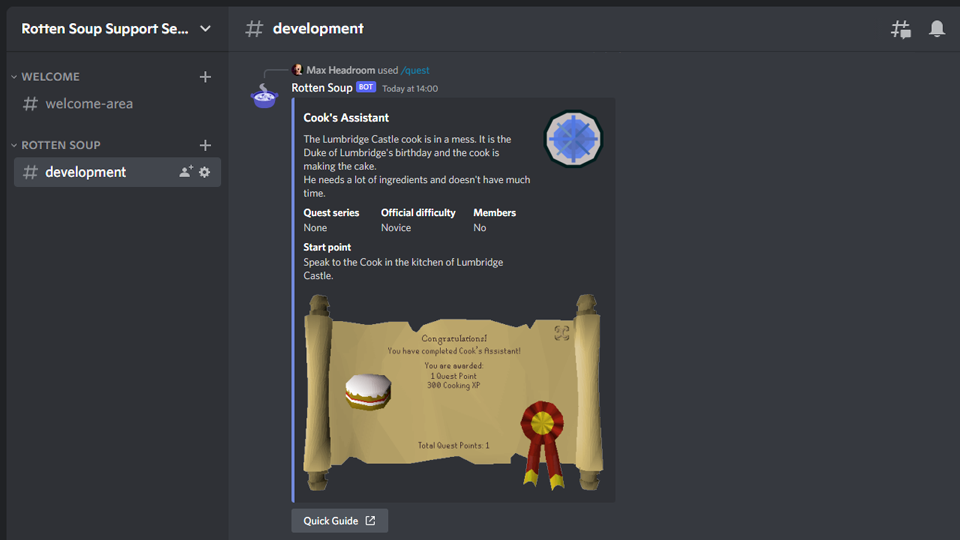
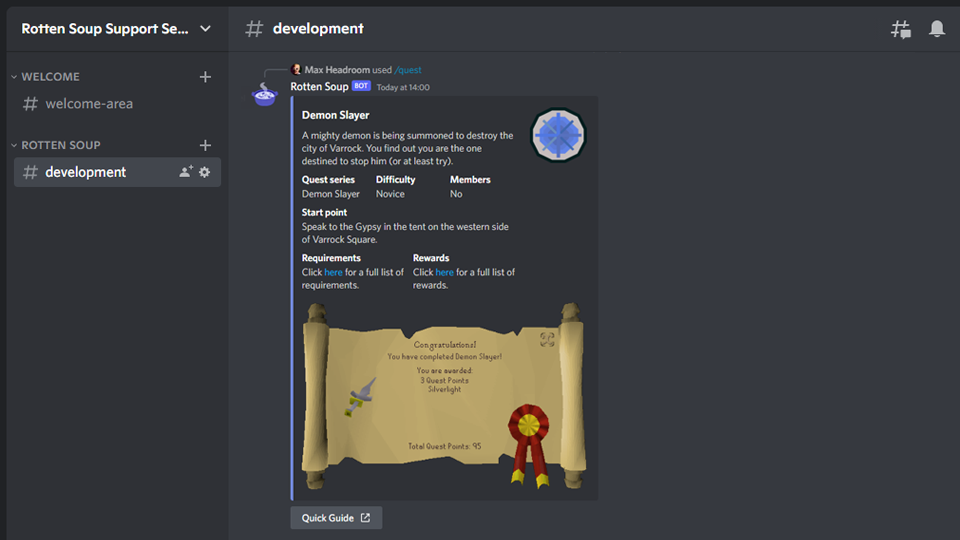
🔧 Update discord-rotten-soup: Update quest feature

Changed region(s): [[0.25, 0.1185, 0.625, 0.9185], [0.3125, 0.9481, 0.4062, 1.0]]

diff --git a/src/cogs/quests.py b/src/cogs/quests.py
@@ -46,9 +46,14 @@ class Quests(commands.Cog, name='quests'):
             button_url=f"https://oldschool.runescape.wiki/w/{title.replace(' ', '_')}/Quick_guide"
         )
         embed.add_field(name='Quest series', value=quest_series, inline=True)
-        embed.add_field(name='Official difficulty', value=difficulty, inline=True)
+        embed.add_field(name='Difficulty', value=difficulty, inline=True)
         embed.add_field(name='Members', value=members, inline=True)
+
         embed.add_field(name='Start point', value=quest_details['Start point'], inline=False)
+
+        embed.add_field(name='Requirements', value=f"Click [here](https://oldschool.runescape.wiki/w/{title.replace(' ', '_')}#Details) for a full list of requirements.", inline=True)
+        embed.add_field(name='Rewards', value=f"Click [here](https://oldschool.runescape.wiki/w/{title.replace(' ', '_')}#Rewards) for a full list of rewards.", inline=True)
+        
         embed.set_image(url=f"https://oldschool.runescape.wiki{reward_scroll['Reward scroll']}")
 
         return(embed, view)
